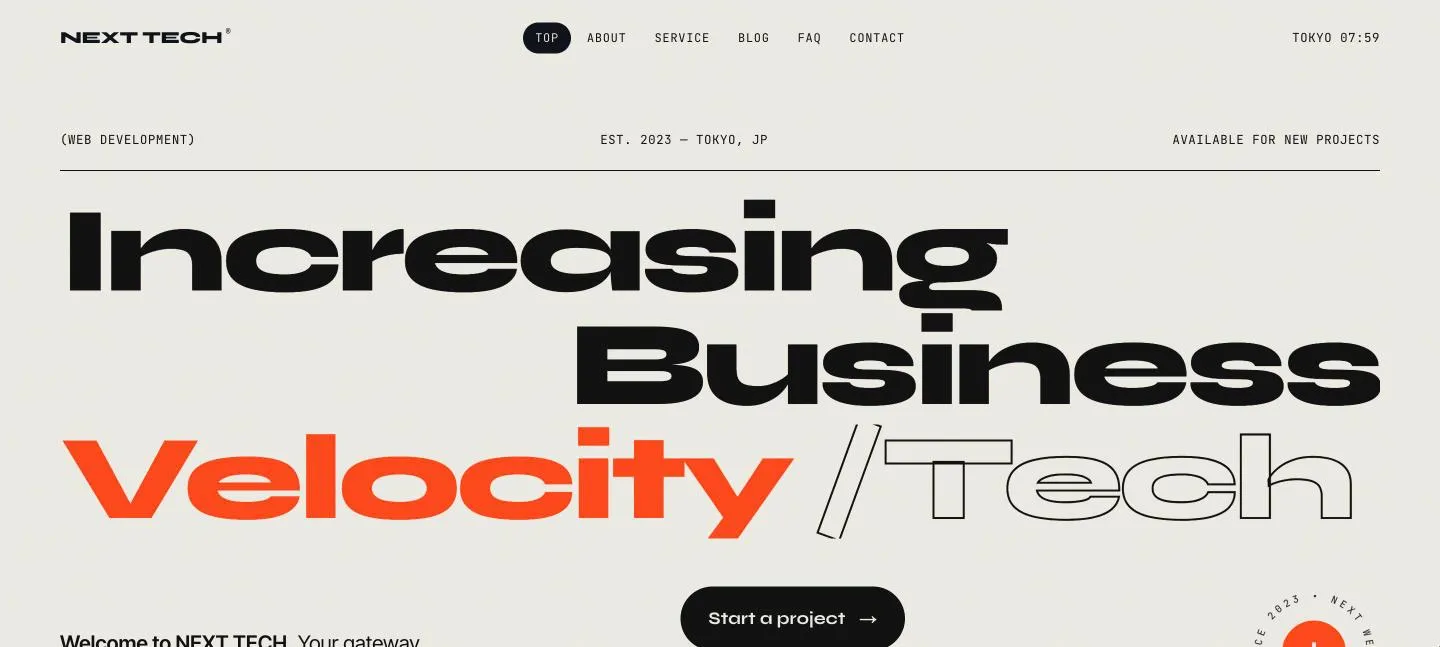
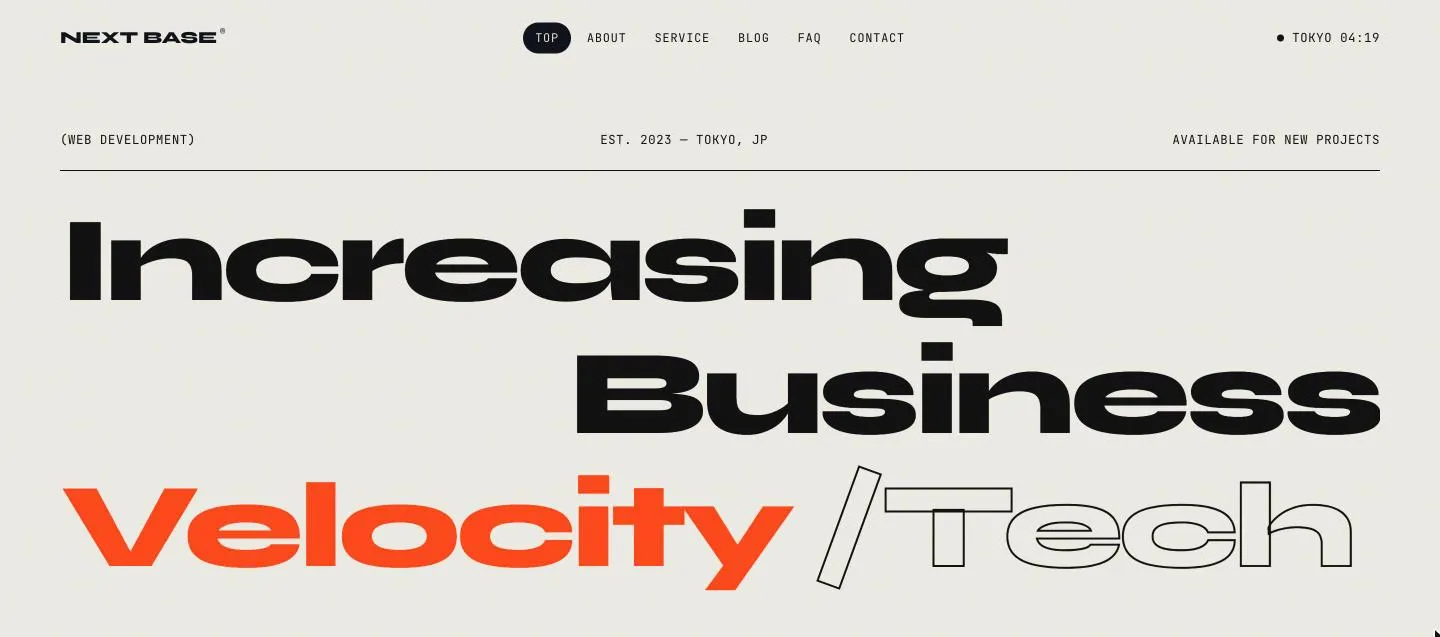
Rename NEXT TECH to NEXT BASE and drop the old Pages Router site
The App Router site is now NEXT BASE on Next.js 16 with Cache Components, a webhook-driven revalidateTag and a Server Action contact form, so its entry, screenshot and profile.json are updated. The old Pages Router NEXT BASE is removed from the Jamstack list, its screenshot and profile.json. The ISR lane now describes webhook revalidation, and the site counts go from six to five.

diff --git a/frontend/lib/config.ts b/frontend/lib/config.ts
@@ -352,21 +352,12 @@ export const JAMSTACK: JamSite[] = [
     },
   },
   {
-    name: "NEXT TECH", fw: "Next.js App Router", render: "ISR", repo: "Nextjs-TypeScript-MicroCMS-Site2",
-    demo: "https://next-tech-trigger.vercel.app", img: "nextjs-app", size: [1440, 647],
-    tech: ["Next.js", "App Router", "TypeScript", "microCMS"],
+    name: "NEXT BASE", fw: "Next.js 16", render: "ISR", repo: "Nextjs-TypeScript-MicroCMS-Site2",
+    demo: "https://next-tech-trigger.vercel.app", img: "nextjs-app", size: [1440, 637],
+    tech: ["Next.js 16", "App Router", "Cache Components", "Server Actions", "microCMS"],
     note: {
-      ja: "コーポレートサイト。記事は ISR で配信し、microCMS で更新すると最大60秒でサイトに反映される。",
-      en: "A corporate site. Posts are served with ISR, so an update in microCMS reaches the site within 60 seconds.",
-    },
-  },
-  {
-    name: "NEXT BASE", fw: "Next.js Pages Router", render: "SSG + ISR", repo: "Nextjs-TypeScript-MicroCMS-Site",
-    demo: "https://nextbase-gsap.vercel.app", img: "nextjs-pages", size: [1440, 647],
-    tech: ["Next.js", "Pages Router", "TypeScript", "GSAP"],
-    note: {
-      ja: "Pages Router の getStaticProps と ISR で記事ページを生成。前後の記事リンクまでビルド時に用意する。",
-      en: "Post pages are generated with getStaticProps and ISR on the Pages Router, including links to the previous and next posts.",
+      ja: "コーポレートサイト。記事は Cache Components（\"use cache\"）で1時間キャッシュし、microCMS の Webhook でキャッシュを作り直してすぐに反映。お問い合わせは Server Action で送信。",
+      en: "A corporate site. Posts are cached for an hour with Cache Components (\"use cache\"), and a microCMS webhook rebuilds the cache so edits go live right away. The contact form is sent through a Server Action.",
     },
   },
   {

diff --git a/frontend/lib/messages.ts b/frontend/lib/messages.ts
@@ -51,7 +51,7 @@ export const MESSAGES = {
     "jam.demo": "デモ",
     "jam.lanes": "記事の更新がサイトに届くまで",
     "jam.lane.SSG": "microCMSで更新 → Webhookで再ビルド → 反映",
-    "jam.lane.ISR": "更新後のアクセスで裏で作り直す（最大60秒）→ 反映",
+    "jam.lane.ISR": "Webhook でキャッシュを作り直す（なければ最長1時間）→ 反映",
     "jam.lane.SSR": "アクセスのたびにその場で取得 → すぐ反映",
     "jam.lane.on": "（このサイトの方式）",
     "blog.label": "ブログの最新記事",
@@ -188,7 +188,7 @@ export const MESSAGES = {
     "jam.demo": "Demo",
     "jam.lanes": "How an update reaches the site",
     "jam.lane.SSG": "Update in microCMS → rebuild via webhook → live",
-    "jam.lane.ISR": "Rebuilt in the background on the next visit (up to 60s) → live",
+    "jam.lane.ISR": "A webhook rebuilds the cache (otherwise within an hour) → live",
     "jam.lane.SSR": "Fetched on every request → live immediately",
     "jam.lane.on": " (used by this site)",
     "blog.label": "Latest blog posts",

diff --git a/README.md b/README.md
@@ -16,7 +16,7 @@ The portfolio site of Shinpei Ohtani. One page brings together his background, s
 | Hero | Signature, headline and a question bar for the AI, beside an ink plum branch that grows and blossoms; a band of three things I do |
 | Skills | Python as the featured panel with "what I do with Python" (four areas; each opens a dialog of matching projects); the rest as a four-column "foundations" grid |
 | Works | Three featured projects with a diagram, why I built them and what I worked on, followed by the other projects |
-| Jamstack | A black-lacquer band comparing six microCMS sites built with different frameworks, switched with View Transitions |
+| Jamstack | A black-lacquer band comparing five microCMS sites built with different frameworks, switched with View Transitions |
 | Blog | The latest three posts from the TECH BLOG (fetched from microCMS, ISR) |
 | Architecture | Diagram and design notes for this site |
 | Contact | Contact form protected by reCAPTCHA v3 |
